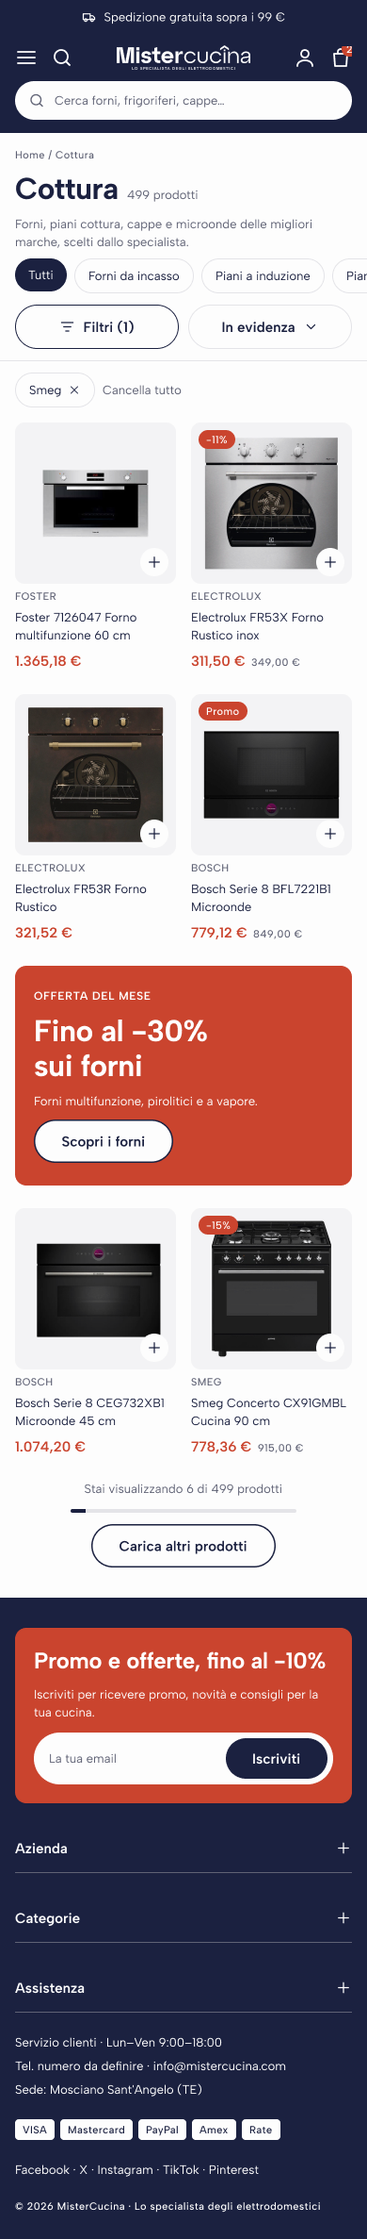
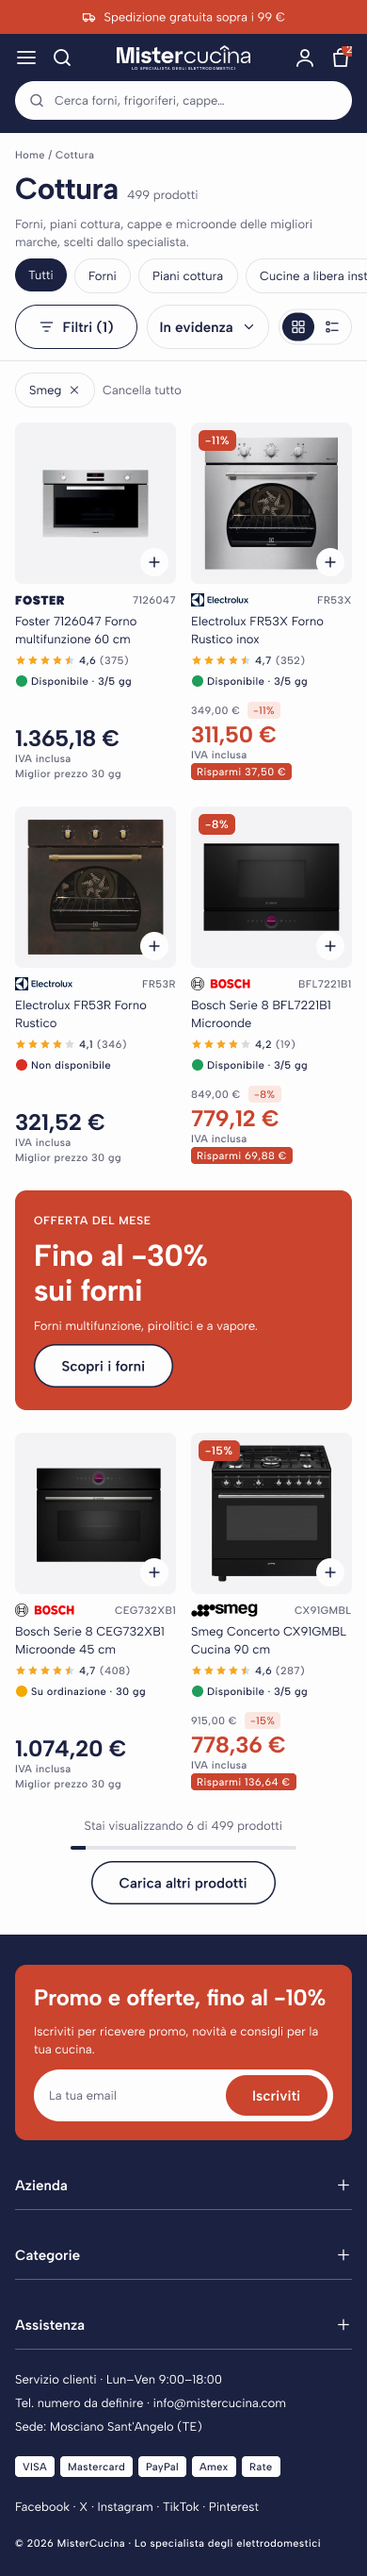
MisterCucina and Trovaincasso: enriched product cards and grid/list view
- Card components cloned from TamTam and rebranded per page (variables,
  text styles, buttons); new brand logos (Franke, Neff, Elica, Candy,
  Indesit, Schock, Whirlpool, Samsung) and placeholders
- All card instances migrated (56 + 51), homepage product grids and
  carousels rebuilt with the new card, old card components removed
- Grid/list selector and list boards 02b / M02b on both pages, wired
- Docs and renders

Claude-Session: https://claude.ai/code/session_01DzDcr4Xa4AaqXv1Nbqd2T5

diff --git a/docs/figma/product-cards.md b/docs/figma/product-cards.md
@@ -1,6 +1,8 @@
-# TamTam Price: enriched product cards and grid/list view (2026-11-16)
+# Enriched product cards and grid/list view (2026-11-16)
 
-Only the `TAMTAM PRICE` page (`0:1`) was changed. MisterCucina and Trovaincasso still use their old cards.
+Done on all three pages: TamTam Price first, then MisterCucina and Trovaincasso (same components, rebranded).
+The TamTam sections below describe the components; the per-brand node ids are in
+[MisterCucina and Trovaincasso](#mistercucina-and-trovaincasso).
 
 ## What a card shows now
 
@@ -25,7 +27,7 @@ Sconto % and Risparmio were calculated from the two prices; ratings and review c
 | `Mobile / Card prodotto · griglia` | `202:4071` | 171 px. Replaces the old `Mobile / Card prodotto` (`110:994`, deleted) |
 | `Card prodotto · lista` | `204:4119` | 1302 px desktop list row: photo, details (specs, energy class, services, Confronta), buy box (price, availability, estimated delivery, shipping cost, add to cart, favourites). Extra props: `Caratteristiche`, `Classe energetica`, `Consegna`, `Spedizione` |
 | `Mobile / Card prodotto · lista` | `204:4231` | 358 px: photo left, short specs line, availability, price |
-| `Logo marca` | `200:3930` | Marca × Taglia (M 20 px, S 14 px). Bosch, Beko, Electrolux, Smeg, Haier are SVGs from Wikimedia Commons; **Candy, Indesit, Foster are text placeholders**, replace them with the official logos |
+| `Logo marca` | `200:3930` | Marca × Taglia (M 20 px, S 14 px). Bosch, Beko, Electrolux, Smeg, Haier are SVGs from Wikimedia Commons; on TamTam **Candy, Indesit, Foster are text placeholders** (the MisterCucina / Trovaincasso sets already have the real Candy and Indesit logos) |
 | `Stelle recensioni` | `199:3982` | Valutazione × Taglia |
 | `Disponibilità` | `199:4001` | Stato × Taglia |
 | `Selettore vista` | `208:6425` | Vista=Griglia/Lista × Taglia (M desktop with label, S mobile) |
@@ -58,8 +60,44 @@ Prototype: the selector switches between the grid and list boards (desktop and m
 Renders: `docs/screenshots/after/tamtam-price-02-plp.png`, `-02b-plp-lista.png`, `-01-home.png`, `-09-ricerca.png`,
 `-componenti-card.png`; `docs/screenshots/mobile/tamtam-price-m01-home.png`, `-m02-plp.png`, `-m02b-plp-lista.png`.
 
+## MisterCucina and Trovaincasso
+
+The TamTam `Componenti card` frame was cloned on each page and rebranded: variables of the brand collection, the
+brand's text styles (Albert Sans / Space Grotesk), the brand's `Bottone / Primario`. Discount badge and "Risparmi"
+chip use `badge/sale` with `text/on-accent`: orange-red with white on MisterCucina, **yellow with dark green** on
+Trovaincasso. The availability text on Trovaincasso reads "Disponibile · spedizione in 24/48h".
+
+| | MisterCucina (`1:2`) | Trovaincasso (`1:3`) |
+|---|---|---|
+| Frame `Componenti card · <brand>` | `213:12149` | `220:11071` |
+| `Card prodotto · griglia` | `213:12400` | `220:11410` |
+| `Mobile / Card prodotto · griglia` | `213:12454` | `220:11464` |
+| `Card prodotto · lista` | `213:12512` | `220:11522` |
+| `Mobile / Card prodotto · lista` | `213:12610` | `220:11620` |
+| `Logo marca` | `213:12307` | `220:11229` |
+| `Stelle recensioni` / `Disponibilità` | `213:12151` / `213:12288` | `220:11073` / `220:11210` |
+| `Selettore vista` | `213:12668` | `220:11678` |
+| 02 PLP griglia (selector added) | `41:1026` Cottura | `42:989` Piani cottura |
+| **02b PLP vista lista** | `219:15226` | `223:13580` |
+| M02 griglia (selector added) | `116:3062` | `119:2729` |
+| **M02b vista lista · mobile** | `219:16903` | `223:15023` |
+
+- Migrated instances: 56 on MisterCucina, 51 on Trovaincasso. The old `Card prodotto` / `Mobile / Card prodotto`
+  components were deleted on both pages.
+- **Homepages:**
+  - MisterCucina: the 10-card "I protagonisti della cucina" grid and the two 3-card sliders ("Il meglio della cottura",
+    "Il meglio del freddo") now use `Card prodotto · griglia` (homepage 11 792 px tall).
+  - Trovaincasso: both 6-card carousels ("Novità" and the second one) use the new card; the "Kit cucina da incasso"
+    promo tile was kept and stretched to the card height; leftover template cards ("Arc Chair", "Sola Vase" …) were removed.
+    The hand-typed code "SMG-909010" on the Smeg card was kept as its SKU (homepage 10 849 px tall).
+- Logos added: Franke, Neff, Elica, Candy, Indesit, Schock (SVG from the brands' websites), Whirlpool (Wikimedia
+  Commons), Samsung (Simple Icons). Text placeholders: Foster, Turbo Air, Plados.
+- Non disponibile examples: Electrolux FR53R (MisterCucina PLP and M02), Foster Veronika (Trovaincasso PLP and M02).
+- Renders: `docs/screenshots/after/<brand>-01-home.png`, `-02-plp.png`, `-02b-plp-lista.png`, `-componenti-card.png`;
+  `docs/screenshots/mobile/<brand>-m02-plp.png`, `-m02b-plp-lista.png`.
+
 ## To confirm
 
 - Real ratings and review counts (from the review app), EAN codes, delivery estimates and the shipping cost per category.
-- Official logos for Candy, Indesit and Foster (and any other brand added later).
+- Official logos for Foster, Turbo Air and Plados (and any other brand added later). Check that the logos taken from the brands' websites may be used.
 - Specs on the list card are derived from the product names (capacity, spin speed); check them against the data sheets.

diff --git a/CLAUDE.md b/CLAUDE.md
@@ -53,7 +53,7 @@ Full-page renders: `docs/screenshots/after/*.png` (current) and `docs/screenshot
   - Each page has new boards 06–12: megamenu, L1 category, cart page with invoice request, search, sign in, orders, shipping.
   - Details, node ids and open points are in [docs/figma/pages-b2c.md](docs/figma/pages-b2c.md).
   - Mobile screens M08–M14 (2026-11-13) mirror boards 06–12; ids in [docs/figma/mobile.md](docs/figma/mobile.md).
-- **TamTam product cards (2026-11-16, TamTam page only):** new card sets `Card prodotto · griglia` / `· lista` and
+- **Product cards (2026-11-16, all three pages):** new card sets `Card prodotto · griglia` / `· lista` and
   `Mobile / Card prodotto · griglia` / `· lista` (brand logo, SKU, stars, availability traffic light, stronger discount
   with savings, "IVA inclusa"), plus grid/list boards 02b and M02b. The old `Card prodotto` components were deleted.
   Details in [docs/figma/product-cards.md](docs/figma/product-cards.md).
